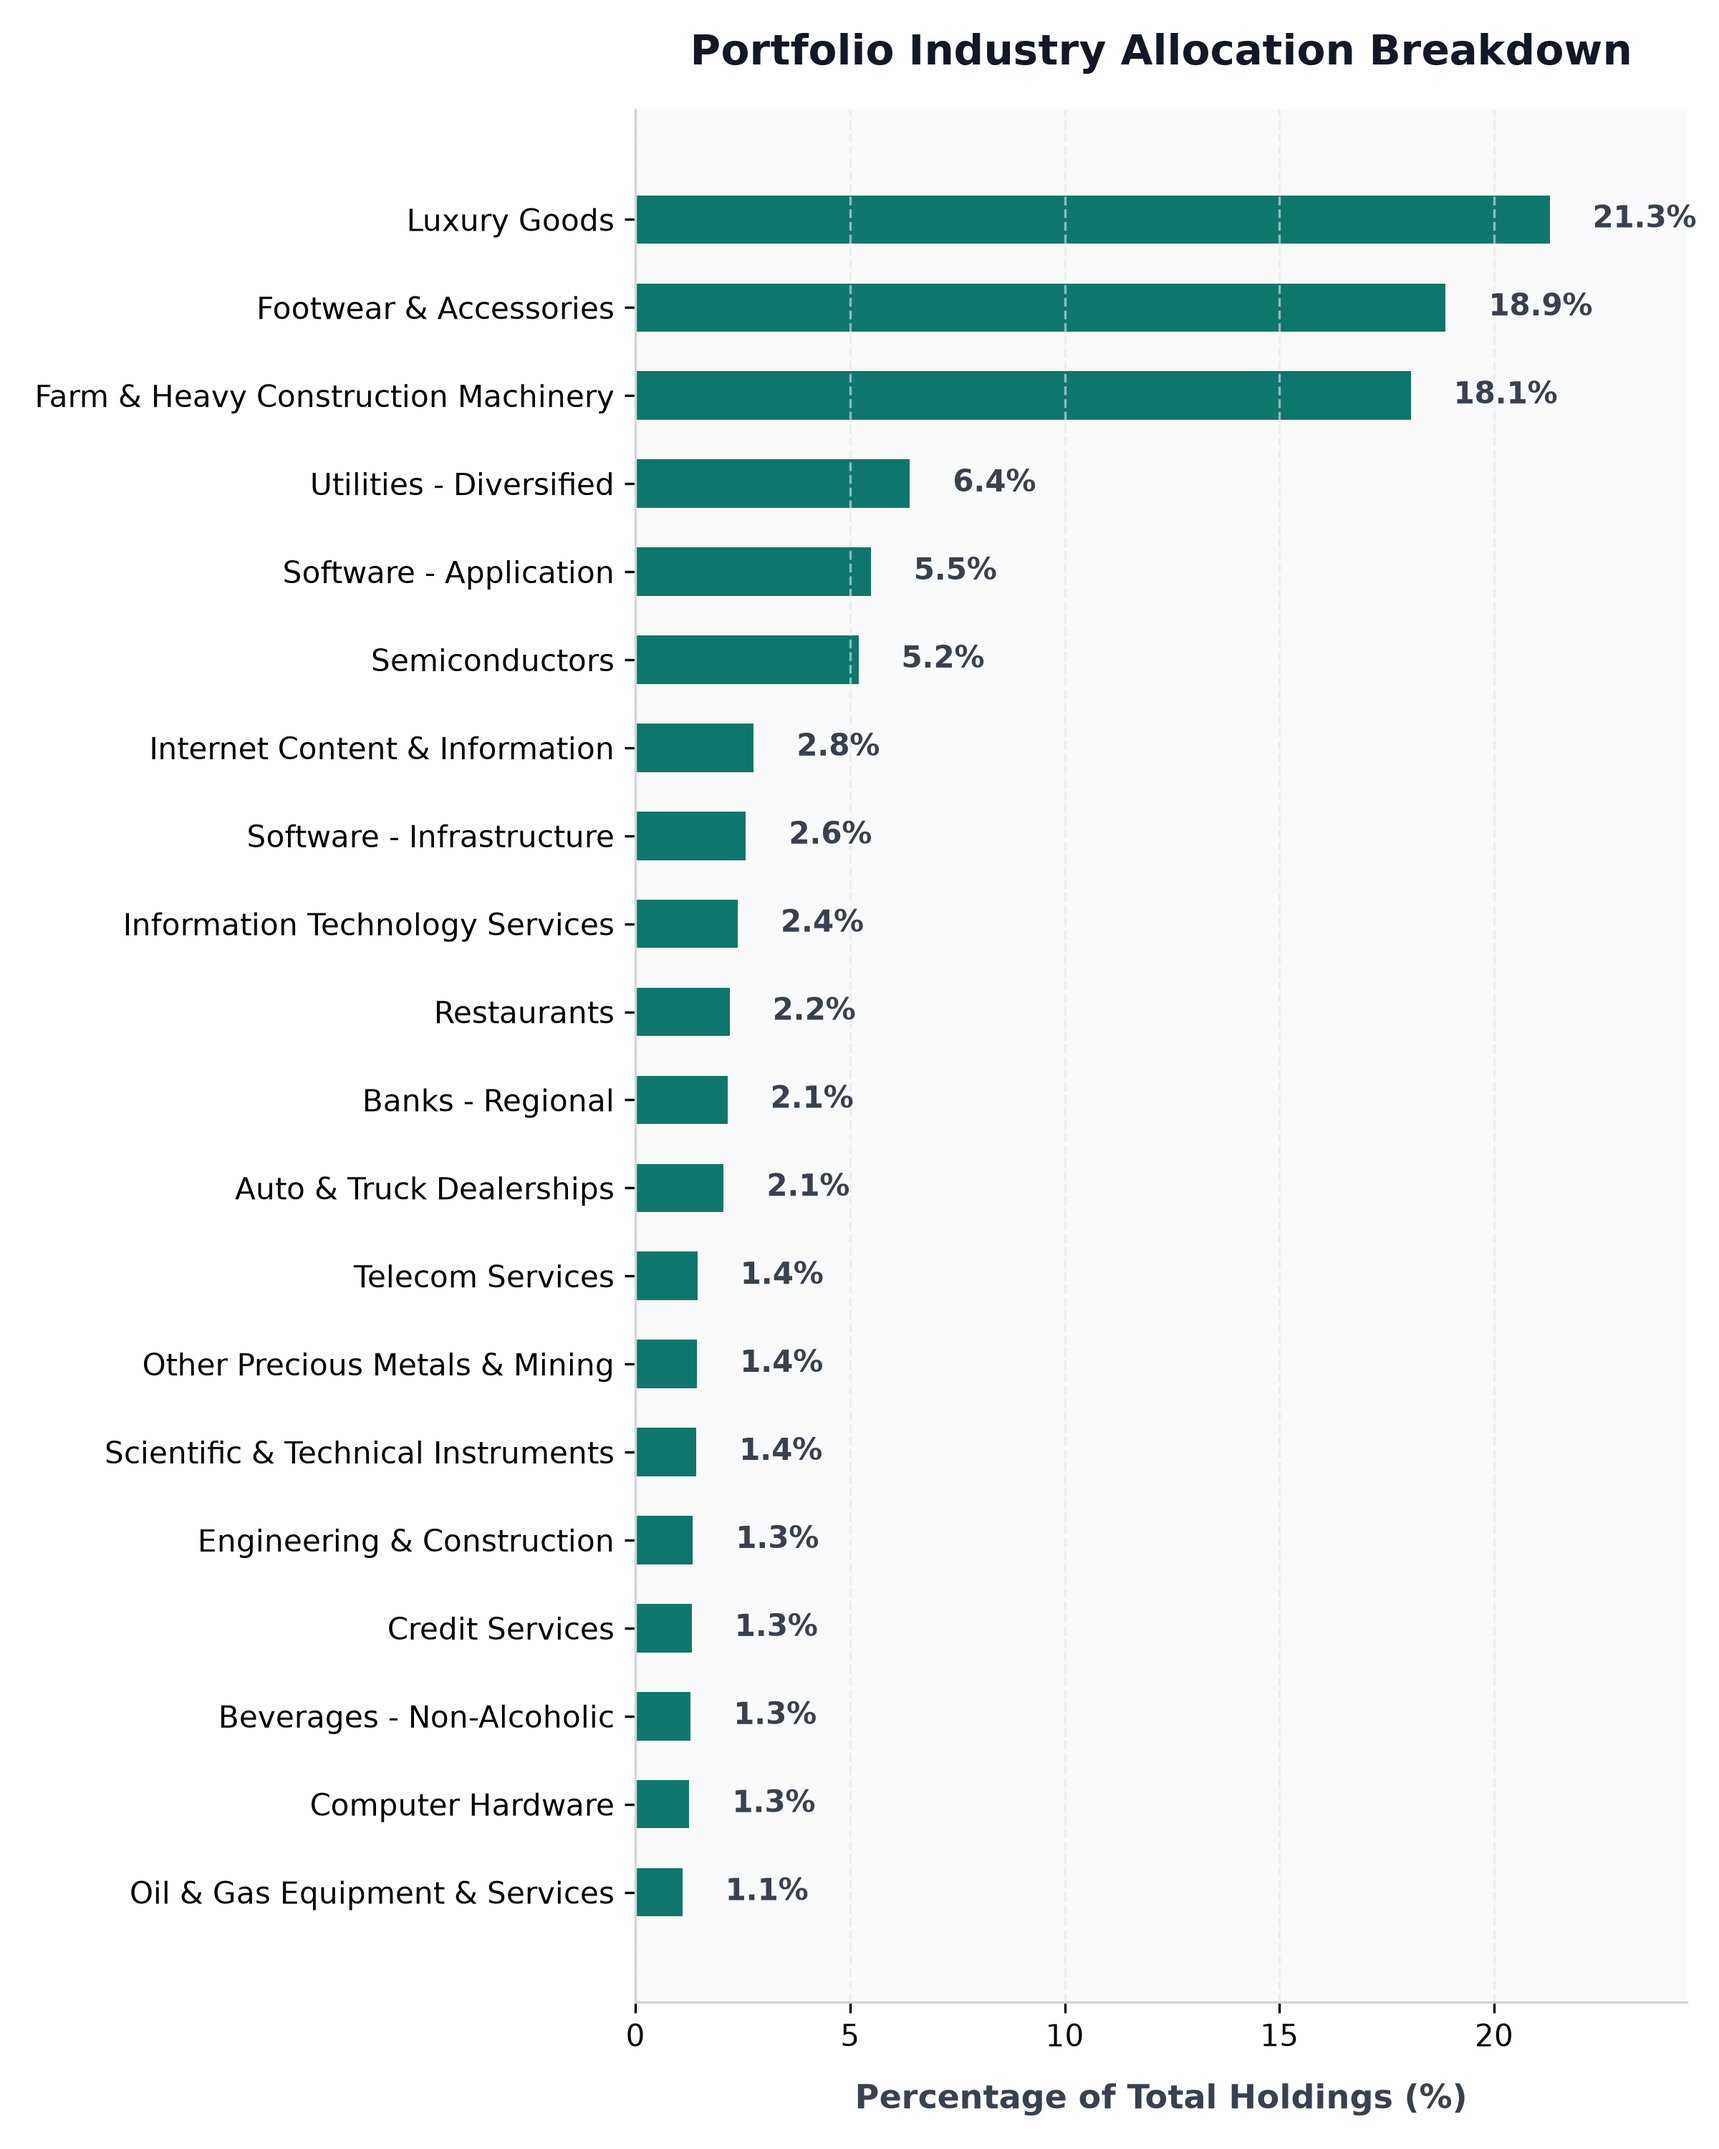
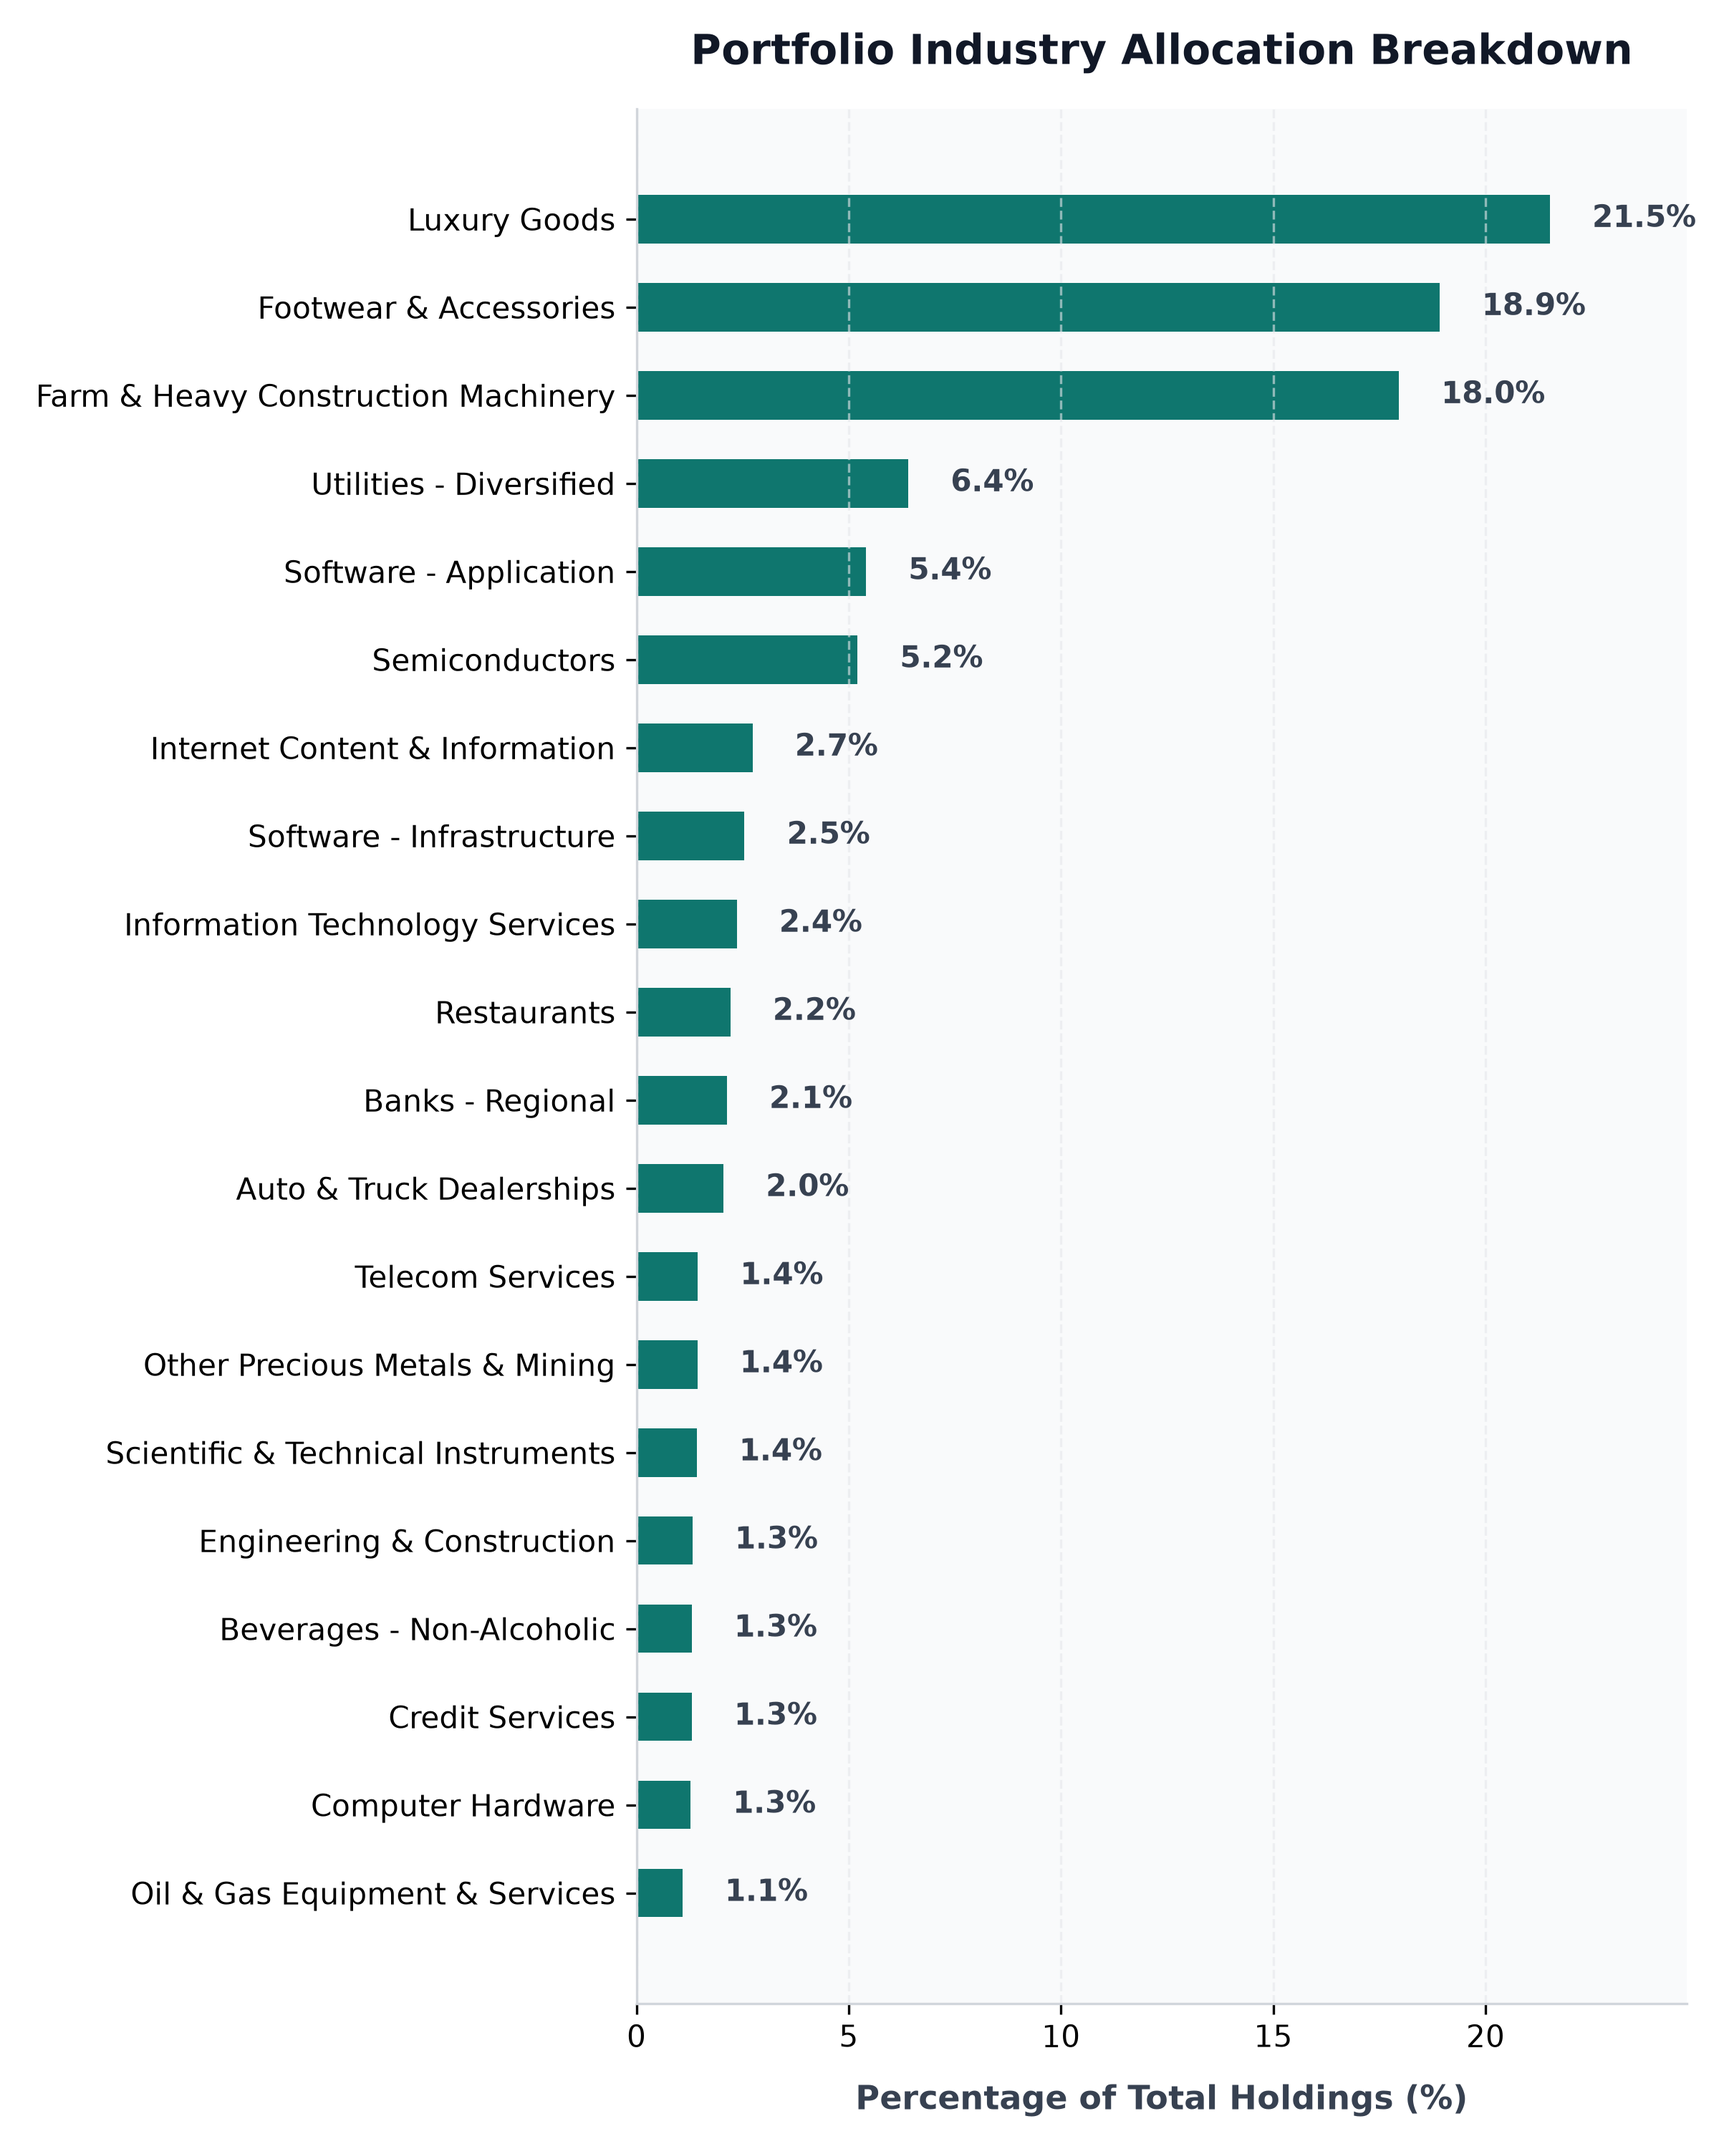
auto: daily portfolio status update - 2026-10-10 06:05:14

diff --git a/src/content/posts/portfolio-performance.md b/src/content/posts/portfolio-performance.md
@@ -1,6 +1,6 @@
 ---
 title: "BadOmen Algorithmic Portfolio Performance & PnL Report"
-pubDatetime: 2026-10-10T00:00:13.650906+08:00
+pubDatetime: 2026-10-10T06:05:14.886437+08:00
 description: "Live performance metrics, active holdings, and historic equity curve for the BadOmen automated paper trading portfolio."
 featured: true
 draft: false
@@ -16,11 +16,11 @@ Welcome to the live performance dashboard for **BadOmen**, our automated algorit
 ## 📊 Portfolio Summary
 | Performance Metric | Value | description |
 | :--- | :--- | :--- |
-| **Net Portfolio Equity** | **$96,012.23** | Total current liquidation value of cash and stock holdings |
-| **Total Unrealized P&L** | 🔴 **$-5,040.93** (-4.99%) | Total return of current open holdings |
+| **Net Portfolio Equity** | **$96,633.49** | Total current liquidation value of cash and stock holdings |
+| **Total Unrealized P&L** | 🔴 **$-4,418.84** (-4.37%) | Total return of current open holdings |
 | **Cash Balance** | $24,224.56 | Idle reserve currency available for limit orders |
-| **Buying Power** | $297,903.72 | Margin-backed buying power for entry allocations |
-| **Report Updated** | `2026-10-10 00:00:13 (SGT)` | Timestamp of daily execution and sync run |
+| **Buying Power** | $299,643.25 | Margin-backed buying power for entry allocations |
+| **Report Updated** | `2026-10-10 06:05:14 (SGT)` | Timestamp of daily execution and sync run |
 
 ## 📈 Net Equity Growth Curve
 The chart below illustrates the historical performance of the account starting from our baseline capital funding of $100,000.00.
@@ -35,35 +35,35 @@ The chart below illustrates the exposure of our currently held active positions 
 ## 💼 Current Position Holdings
 | Ticker | Industry | Shares Owned | Average Entry Cost | Current Price | Unrealized P&L | Return (%) |
 | :--- | :--- | :--- | :--- | :--- | :--- | :--- |
-| **AN** | Auto & Truck Dealerships | 5 | $188.51 | $157.60 | 🔴 $-154.54 | -16.40% |
-| **AVGO** | Semiconductors | 1 | $385.71 | $362.60 | 🔴 $-23.11 | -5.99% |
-| **BIRK** | Footwear & Accessories | 407 | $37.32 | $33.29 | 🔴 $-1,639.28 | -10.79% |
-| **BLBD** | Farm & Heavy Construction Machinery | 231 | $65.52 | $56.12 | 🔴 $-2,170.47 | -14.34% |
-| **BVN** | Other Precious Metals & Mining | 32 | $31.88 | $32.23 | 🟢 +$11.36 | +1.11% |
-| **CELH** | Beverages - Non-Alcoholic | 33 | $29.71 | $27.98 | 🔴 $-57.18 | -5.83% |
-| **CPRI** | Luxury Goods | 1042 | $14.55 | $14.67 | 🟢 +$123.16 | +0.81% |
-| **DUOL** | Software - Application | 14 | $131.04 | $149.14 | 🟢 +$253.35 | +13.81% |
-| **FIS** | Information Technology Services | 23 | $41.79 | $34.15 | 🔴 $-175.72 | -18.28% |
-| **GDDY** | Software - Infrastructure | 6 | $76.21 | $104.48 | 🟢 +$169.65 | +37.10% |
-| **GDS** | Information Technology Services | 30 | $32.77 | $30.85 | 🔴 $-57.60 | -5.86% |
-| **GGAL** | Banks - Regional | 17 | $56.04 | $37.14 | 🔴 $-321.29 | -33.73% |
-| **GOOGL** | Internet Content & Information | 3 | $319.44 | $353.24 | 🟢 +$101.39 | +10.58% |
-| **GPI** | Auto & Truck Dealerships | 3 | $316.15 | $229.37 | 🔴 $-260.34 | -27.45% |
-| **HUBS** | Software - Application | 8 | $221.18 | $231.01 | 🟢 +$78.63 | +4.44% |
-| **ITRI** | Scientific & Technical Instruments | 12 | $81.80 | $84.93 | 🟢 +$37.56 | +3.83% |
-| **KBR** | Engineering & Construction | 27 | $36.23 | $35.60 | 🔴 $-17.09 | -1.75% |
-| **NESR** | Oil & Gas Equipment & Services | 34 | $28.74 | $23.10 | 🔴 $-191.76 | -19.62% |
-| **NU** | Banks - Regional | 57 | $11.60 | $15.94 | 🟢 +$247.18 | +37.39% |
-| **ON** | Semiconductors | 10 | $90.45 | $76.62 | 🔴 $-138.35 | -15.29% |
-| **ORCL** | Software - Infrastructure | 5 | $181.95 | $141.66 | 🔴 $-201.45 | -22.14% |
-| **PATH** | Software - Infrastructure | 38 | $10.25 | $13.49 | 🟢 +$123.12 | +31.61% |
-| **PYPL** | Credit Services | 17 | $56.05 | $55.47 | 🔴 $-9.86 | -1.03% |
-| **QCOM** | Semiconductors | 15 | $193.68 | $173.37 | 🔴 $-304.72 | -10.49% |
-| **SMCI** | Computer Hardware | 22 | $29.25 | $41.01 | 🟢 +$258.72 | +40.20% |
-| **SRE** | Utilities - Diversified | 57 | $84.75 | $80.53 | 🔴 $-240.68 | -4.98% |
-| **T** | Telecom Services | 47 | $20.85 | $22.09 | 🟢 +$58.05 | +5.92% |
-| **WEN** | Restaurants | 257 | $8.02 | $6.13 | 🔴 $-486.69 | -23.60% |
-| **ZG** | Internet Content & Information | 31 | $31.35 | $29.64 | 🔴 $-52.96 | -5.45% |
+| **AN** | Auto & Truck Dealerships | 5 | $188.51 | $157.38 | 🔴 $-155.64 | -16.51% |
+| **AVGO** | Semiconductors | 1 | $385.71 | $362.31 | 🔴 $-23.40 | -6.07% |
+| **BIRK** | Footwear & Accessories | 407 | $37.32 | $33.65 | 🔴 $-1,492.76 | -9.83% |
+| **BLBD** | Farm & Heavy Construction Machinery | 231 | $65.52 | $56.29 | 🔴 $-2,131.20 | -14.08% |
+| **BVN** | Other Precious Metals & Mining | 32 | $31.88 | $32.46 | 🟢 +$18.72 | +1.84% |
+| **CELH** | Beverages - Non-Alcoholic | 33 | $29.71 | $28.56 | 🔴 $-38.04 | -3.88% |
+| **CPRI** | Luxury Goods | 1042 | $14.55 | $14.95 | 🟢 +$414.92 | +2.74% |
+| **DUOL** | Software - Application | 14 | $131.04 | $149.22 | 🟢 +$254.46 | +13.87% |
+| **FIS** | Information Technology Services | 23 | $41.79 | $34.04 | 🔴 $-178.25 | -18.55% |
+| **GDDY** | Software - Infrastructure | 6 | $76.21 | $104.35 | 🟢 +$168.84 | +36.92% |
+| **GDS** | Information Technology Services | 30 | $32.77 | $30.91 | 🔴 $-55.80 | -5.68% |
+| **GGAL** | Banks - Regional | 17 | $56.04 | $36.81 | 🔴 $-326.90 | -34.31% |
+| **GOOGL** | Internet Content & Information | 3 | $319.44 | $351.70 | 🟢 +$96.78 | +10.10% |
+| **GPI** | Auto & Truck Dealerships | 3 | $316.15 | $232.01 | 🔴 $-252.42 | -26.61% |
+| **HUBS** | Software - Application | 8 | $221.18 | $228.30 | 🟢 +$56.95 | +3.22% |
+| **ITRI** | Scientific & Technical Instruments | 12 | $81.80 | $85.58 | 🟢 +$45.36 | +4.62% |
+| **KBR** | Engineering & Construction | 27 | $36.23 | $35.34 | 🔴 $-24.11 | -2.46% |
+| **NESR** | Oil & Gas Equipment & Services | 34 | $28.74 | $23.05 | 🔴 $-193.46 | -19.80% |
+| **NU** | Banks - Regional | 57 | $11.60 | $16.07 | 🟢 +$254.59 | +38.51% |
+| **ON** | Semiconductors | 10 | $90.45 | $77.57 | 🔴 $-128.88 | -14.25% |
+| **ORCL** | Software - Infrastructure | 5 | $181.95 | $141.38 | 🔴 $-202.85 | -22.30% |
+| **PATH** | Software - Infrastructure | 38 | $10.25 | $13.41 | 🟢 +$120.23 | +30.87% |
+| **PYPL** | Credit Services | 17 | $56.05 | $55.40 | 🔴 $-11.05 | -1.16% |
+| **QCOM** | Semiconductors | 15 | $193.68 | $175.46 | 🔴 $-273.37 | -9.41% |
+| **SMCI** | Computer Hardware | 22 | $29.25 | $41.83 | 🟢 +$276.76 | +43.01% |
+| **SRE** | Utilities - Diversified | 57 | $84.75 | $81.34 | 🔴 $-194.51 | -4.03% |
+| **T** | Telecom Services | 47 | $20.85 | $22.24 | 🟢 +$65.33 | +6.67% |
+| **WEN** | Restaurants | 257 | $8.02 | $6.23 | 🔴 $-460.99 | -22.36% |
+| **ZG** | Internet Content & Information | 31 | $31.35 | $29.80 | 🔴 $-48.15 | -4.95% |
 
 ## 🔴 Recent Realized Trades
 | Ticker | Shares Sold | Entry Price | Exit Price | Strategy Trigger | Realized Return | Exit Date |
